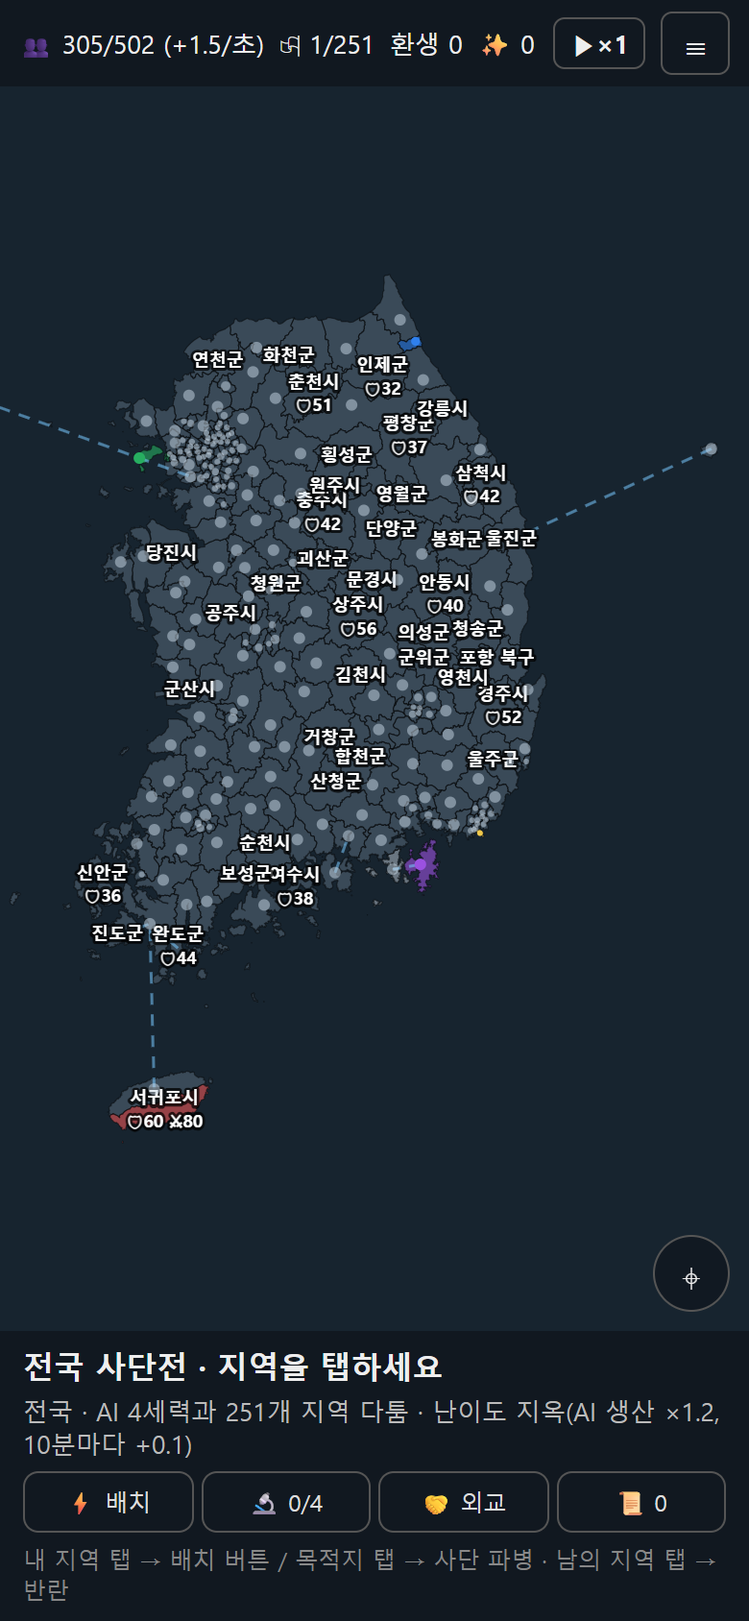
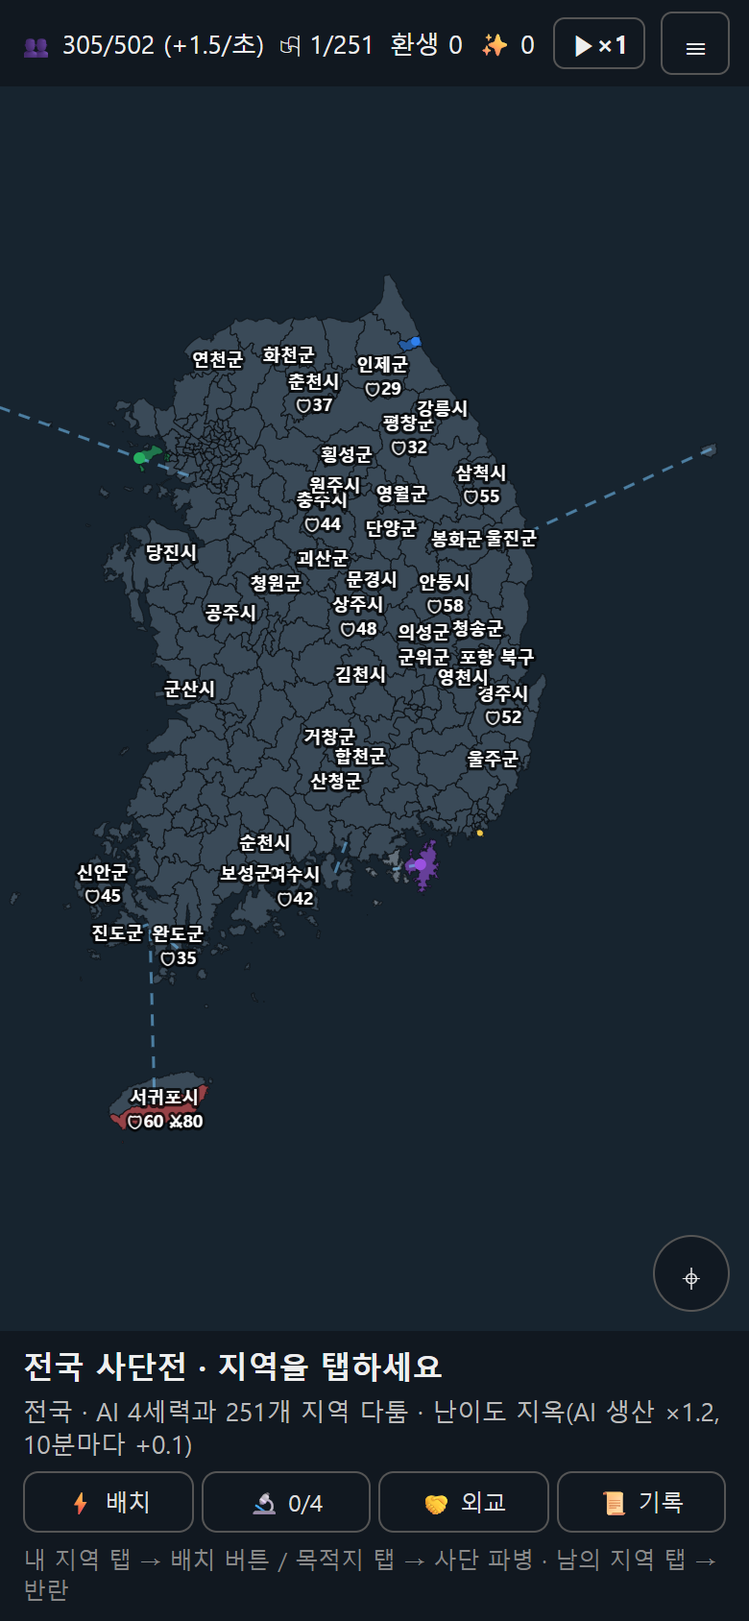
사단전: 시·도 완전 점령 보너스 · 시작 지역 고르기 · 📊전황
- 시·도(서울·강원…)를 전부 가지면 그 지역들 생산 +30%·수비 +15%. 유산 '통치'(+10%p/Lv)와
  축복 '통합'(×2)이 이 모드에서도 뜻을 갖는다. 지도에 ★, 패널에 ⛳ 진행도(강원 12/18).
  한 판의 목표가 "251곳 다 먹기" 하나뿐이던 문제 — 중간 목표가 생겼다
- 시작 지역 고르기: "강원도에서 항상 시작하는 건 너무 힘들다"는 피드백. 판마다 4~8곳 중 고르고,
  초반 속도를 봇으로 실측해(지옥·시드 5개·10분 지역 수) 쉬움/보통/어려움/도전을 붙였다.
  수원 장안구 126곳 · 전주 100 · 청주 99 · 천안 94 · 창원 89 · 속초 85 · 안동 50 · 제주 48
- 📊 전황: 세력별 지역 수 막대·인력·생산·★시·도, 그리고 시·도별 점유 현황

Claude-Session: https://claude.ai/code/session_0121x7Too4SyNdWJQZ2xNJJY

diff --git a/src/region/main.js b/src/region/main.js
@@ -1,5 +1,5 @@
 // 사단전 모드 배선 (region.html)
-import { MAP, PLAYER, NEUTRAL, OFF, newRun, tick, status, owned, activeCount, totalPool, totalProd, allocate, move, rebel, canRebel, predict, setListener, prodOf, poolCap, defMul, info, adj, TRAIT_NAME, difficultyOf, REBEL_DELAY, REBEL_RATIO, BOARDS, DEFAULT_BOARD, boardOf, ISO_PROD, ISO_DEF, supplyHub, autoDeploy, moveFar, pathThroughMine, truce, TRUCE, TECHS, techsOf, techCost, hasTech, techCount, research, atPeace, pactLeft, relOf, proposePact, refusedLeft, leaderOf, PACT_DUR } from './game.js';
+import { MAP, PLAYER, NEUTRAL, OFF, newRun, tick, status, owned, activeCount, totalPool, totalProd, allocate, move, rebel, canRebel, predict, setListener, prodOf, poolCap, defMul, info, adj, TRAIT_NAME, difficultyOf, REBEL_DELAY, REBEL_RATIO, BOARDS, DEFAULT_BOARD, boardOf, HOMES, homesOf, homeNames, provinceIds, provinceHolder, provProgress, provMul, PROV_PROD, ISO_PROD, ISO_DEF, supplyHub, autoDeploy, moveFar, pathThroughMine, truce, TRUCE, TECHS, techsOf, techCost, hasTech, techCount, research, atPeace, pactLeft, relOf, proposePact, refusedLeft, leaderOf, PACT_DUR } from './game.js';
 import { runAi } from './ai.js';
 import { draw, pickRegion, bounds, centerOf, regionBox } from './render.js';
 import { createCamera, ownerColor, FACTION_COLORS, setColorblind } from '../render.js';
@@ -101,6 +101,13 @@ function refresh() {
   const r = state.run.regions[id], m = info(id), mine = r.owner === PLAYER;
   $('p-title').innerHTML = `<span style="color:${ownerColor(r.owner)}">■</span> ${m.p} ${m.n} · ${ownerName(r.owner)} · ${TRAIT_NAME[m.tr]}`;
   const lines = [`🛡 방어 ${Math.floor(r.def)} · ⚔ 사단 ${Math.floor(r.div)} · 수비 배율 ×${defMul(state, r).toFixed(2)}`];
+  const pg = provProgress(state, m.p);
+  if (pg.total > 1) {
+    const holder = provinceHolder(state.run, m.p);
+    lines.push(holder === PLAYER
+      ? `★ ${m.p} 완전 점령 — 이 시·도 전체 생산 +${Math.round((provMul(state, r, 'prod') - 1) * 100)}%, 수비 +15%`
+      : `⛳ ${m.p} ${pg.mine}/${pg.total}${holder !== null ? ` · 지금 주인 ${ownerName(holder)}` : ''} — 다 가지면 생산 +${Math.round(PROV_PROD * 100)}%, 수비 +15%`);
+  }
   if (r.owner !== NEUTRAL && r.iso) lines.push(`⛓ 고립 — 본국(${r.owner === PLAYER ? info(supplyHub(state, PLAYER)).n : '상대 수도'})과 이어진 길이 끊겨 생산 ×${ISO_PROD}, 수비 ×${ISO_DEF}`);
   if (r.owner !== NEUTRAL) lines.push(`생산력 ${prodOf(state, r).toFixed(2)}/초 (${m.t})${mine ? ` · 내 인력 ${Math.floor(totalPool(state, PLAYER))}/${Math.floor(poolCap(state, PLAYER))} (전 지역 합산 +${totalProd(state, PLAYER).toFixed(1)}/초)` : ''}`);
   else lines.push(`중립 · 생산력 ${m.prod}/초 (${m.t}) · 점령하려면 ${Math.floor(r.def * defMul(state, r)) + 1}명 넘게`);
@@ -153,13 +160,26 @@ function mapPickerHtml() {
 const pickedDifficulty = () => { const el = document.querySelector('input[name="diff"]:checked'); return el ? el.value : state.legacy.difficulty; };
 function boardPickerHtml() {
   const cur = state.legacy.boardPref || state.run.board || DEFAULT_BOARD;
-  return `<p class="sub">판 (권역을 고르면 짧고 빠른 판)</p>` + Object.entries(BOARDS).map(([k, b]) => `<label class="diff-row"><input type="radio" name="board" value="${k}" ${k === cur ? 'checked' : ''}> ${b.name} <span class="desc">${b.desc}${b.maxAi < 6 ? ` · AI 최대 ${b.maxAi}` : ''}</span></label>`).join('');
+  return `<p class="sub">판 (권역을 고르면 짧고 빠른 판)</p>` + Object.entries(BOARDS).map(([k, b]) => `<label class="diff-row"><input type="radio" name="board" value="${k}" ${k === cur ? 'checked' : ''}> ${b.name} <span class="desc">${b.desc}${b.maxAi < 6 ? ` · AI 최대 ${b.maxAi}` : ''}</span></label>`).join('')
+    + `<div id="home-pick">${homePickerHtml(cur)}</div>`;
+}
+const TAG_COLOR = { '쉬움': '#6fe38f', '보통': '#8fd0ff', '어려움': '#ffd479', '도전': '#ff9c9c' };
+function homePickerHtml(board) {
+  const cur = state.legacy.homePref && homeNames(board).includes(state.legacy.homePref) ? state.legacy.homePref : BOARDS[board].home;
+  return `<p class="sub">시작 지역 (내 수도 · 어디서 시작하느냐로 초반이 크게 달라집니다)</p>` + homesOf(board).map(h => `<label class="diff-row"><input type="radio" name="home" value="${h.n}" ${h.n === cur ? 'checked' : ''}> ${h.n} <b style="color:${TAG_COLOR[h.tag]}">${h.tag}</b> <span class="desc">${h.desc}</span></label>`).join('');
 }
 const pickedBoard = () => { const el = document.querySelector('input[name="board"]:checked'); return el ? el.value : (state.legacy.boardPref || DEFAULT_BOARD); };
+const pickedHome = () => { const el = document.querySelector('input[name="home"]:checked'); return el ? el.value : null; };
+// 판을 바꾸면 시작 지역 목록도 따라 바뀐다
+function wireBoardPicker() {
+  for (const el of document.querySelectorAll('input[name="board"]')) {
+    el.addEventListener('change', () => { const box = $('home-pick'); if (box) box.innerHTML = homePickerHtml(el.value); });
+  }
+}
 const pickedPerk = () => { const el = document.querySelector('input[name="perk"]:checked'); return el ? el.value : null; };
 function perkPickerHtml(seed) { return `<p class="sub">이번 판 축복 (하나 선택)</p><div class="perk-row">${offerPerks(seed).map((k, i) => `<label><input type="radio" name="perk" value="${k}" ${i === 0 ? 'checked' : ''}><b>${PERKS[k].icon} ${PERKS[k].name}</b><span class="desc">${PERKS[k].desc}</span></label>`).join('')}</div>`; }
 function openCareer(after = hideModal) { openCareerModal({ state, save: () => save(), after, mode: 'region', boardName: k => (BOARDS[k] || {}).name, canChangeLead: () => truce(state) || !state.legacy.lead }); }
-function startNew(seed, perk, board = state.legacy.boardPref || DEFAULT_BOARD) { state.legacy.boardPref = board; state.run = newRun(seed, state.legacy, perk, board); sel = null; inspect = null; ended = false; effects = []; fitAll(); focusOn(state.run.regions.findIndex(r => r.owner === PLAYER)); save(); refresh(); }
+function startNew(seed, perk, board = state.legacy.boardPref || DEFAULT_BOARD, home = state.legacy.homePref) { state.legacy.boardPref = board; if (home) state.legacy.homePref = home; state.run = newRun(seed, state.legacy, perk, board, home); sel = null; inspect = null; ended = false; effects = []; fitAll(); focusOn(state.run.regions.findIndex(r => r.owner === PLAYER)); save(); refresh(); }
 function openShop(after = hideModal) {
   const rows = Object.entries(LEGACY_ITEMS).map(([k, it]) => {
     const lv = state.legacy.upgrades[k] || 0, maxed = lv >= it.max, locked = itemLocked(it, state.legacy), cost = maxed ? null : itemCost(k, lv);
@@ -227,6 +247,24 @@ function openFind(q = '') {
   const el = $('find-q');
   if (el) { el.addEventListener('input', () => { const v = el.value; openFind(v); const e2 = $('find-q'); if (e2) { e2.focus(); e2.setSelectionRange(v.length, v.length); } }); }
 }
+function openStatus(after = hideModal) {
+  const total = activeCount(state);
+  const rows = [];
+  for (let f = 0; f < state.run.factions; f++) {
+    const n = owned(state, f).length, pct = Math.round(n / total * 100);
+    const provs = [...provinceIds(state.run.board || DEFAULT_BOARD).keys()].filter(p => provinceHolder(state.run, p) === f);
+    rows.push(`<div class="shop-row"><span class="name" style="color:${ownerColor(f)}">${ownerName(f)} <b>${n}곳 (${pct}%)</b>
+      <span class="desc">인력 ${Math.floor(totalPool(state, f))} · 생산 ${totalProd(state, f).toFixed(0)}/초${provs.length ? ` · ★ ${provs.join(' ')}` : ''}</span>
+      <span style="display:block;height:6px;margin-top:4px;background:#2a3644;border-radius:3px"><span style="display:block;height:6px;width:${Math.max(2, pct)}%;background:${ownerColor(f)};border-radius:3px"></span></span></span></div>`);
+  }
+  const provs = [...provinceIds(state.run.board || DEFAULT_BOARD).entries()]
+    .map(([p, ids]) => { const h = provinceHolder(state.run, p); const mine = ids.filter(id => state.run.regions[id].owner === PLAYER).length; return { p, h, mine, total: ids.length }; })
+    .sort((a, b) => (b.mine / b.total) - (a.mine / a.total));
+  const provRow = provs.map(x => `<span style="color:${x.h === null ? '#aaa' : ownerColor(x.h)}">${x.h !== null ? '★' : ''}${x.p} ${x.mine}/${x.total}</span>`).join(' · ');
+  showModal({ title: `📊 전황 · ${hms(Math.round(state.run.elapsed || 0))}째`, html: `${rows.join('')}
+    <p class="sub">시·도 (★ = 완전 점령, 그 시·도 생산 +${Math.round(PROV_PROD * 100)}%·수비 +15%)</p><p>${provRow}</p>`,
+    actions: [{ label: '닫기', onClick: after, primary: true }] });
+}
 function openLog() {
   const L = logs();
   const rows = L.map((x, i) => `<div class="shop-row"><span class="name" style="color:${x.kind === 'bad' ? '#ff9c9c' : x.kind === 'good' ? '#9ae6b4' : '#ddd'}">${x.text}<span class="desc">${hms(x.t)}째</span></span>${x.id !== null && x.id !== undefined ? `<button data-action="go:${x.id}">보기</button>` : ''}</div>`).join('')
@@ -243,6 +281,8 @@ function openHelp() {
     <h3>반란</h3><p>남이 가진 지역을 탭 → ✊반란 10/100/500/최대. 내 모든 풀에서 빠지고 10초 뒤 70%가 그 지역 안에서 봉기해 방어+사단과 싸운다. 인접할 필요 없음. AI도 똑같이 한다.</p>
     <h3>연구</h3><p>패널의 🔬<b>연구</b>로 인력을 들여 그 판 동안 쓸 기술을 산다: ${Object.values(TECHS).map(t => `${t.icon}${t.name}(${t.desc})`).join(' · ')}. 하나 살 때마다 다음 값이 1.6배. AI도 똑같이 연구한다.</p>
     <h3>외교</h3><p>🤝<b>외교</b>로 AI에 <b>정전</b>(${PACT_DUR}초)을 제안한다. 정전 중엔 서로 못 친다. 어기면 관계가 크게 깎이고 다른 세력도 나를 믿지 않는다. AI들은 👑<b>선두를 싫어해</b> 자기들끼리 손을 잡으니, 내가 너무 앞서면 사방에서 몰려온다.</p>
+    <h3>시·도 완전 점령</h3><p>한 시·도(서울·강원·경북…)의 지역을 <b>전부</b> 가지면 그 시·도 지역들의 생산 +${Math.round(PROV_PROD * 100)}%, 수비 +15%(유산 '통치'로 더, 축복 '통합'이면 두 배). 지도에서 ★가 붙고, 패널에 ⛳ 진행도(예: 강원 12/18)가 뜬다. 한 판 안의 중간 목표다. ≡ 메뉴 📊<b>전황</b>에서 세력별 세력도와 시·도 점유를 한눈에 본다.</p>
+    <h3>시작 지역</h3><p>환생 창이나 "난이도 바꿔 새 판"에서 <b>시작 지역</b>을 고른다. 쉬움(수원 장안구)부터 도전(제주시·안동시)까지 붙은 표시는 봇으로 실측한 초반 속도다. 속초시(설악산)는 이웃 셋이 전부 산악 군이라 어려움 쪽이다.</p>
     <h3>보급 (본국 연결)</h3><p>내 <b>본국</b>(수도, 잃으면 생산력이 가장 큰 내 지역)에서 <b>내 지역만 밟아</b> 닿지 않는 지역은 ⛓<b>고립</b>이다. 고립 지역은 생산 ×${ISO_PROD}, 수비 ×${ISO_DEF}이고 지도에서 어둡게 보인다. AI도 똑같이 당하니, 크게 뻗은 AI의 <b>허리를 끊으면</b> 뒤쪽 땅이 한꺼번에 약해진다.</p>
     <h3>기록</h3><p>패널의 📜<b>기록</b>에 점령·상실·봉기·배신·격파·연구가 최근 30건까지 남는다. [보기]를 누르면 그 지역으로 간다. 정전 중인 세력 땅에는 흰 점선 테두리가 뜬다.</p>
     <h3>화면</h3><p>한 손가락으로 밀어 이동, 두 손가락으로 확대·축소(많이 들어갈 수 있다), ⌖로 전체 보기. 서울처럼 작은 구는 확대해야 이름이 뜬다. ≡ 메뉴의 🔍<b>지역 찾기</b>에 이름 일부를 넣으면 그 지역으로 바로 옮겨 준다.</p>
@@ -254,7 +294,7 @@ function openHelp() {
 }
 function openMenu() {
   showModal({ title: '메뉴 · 사단전', html: `<p>🎖 ${rankOf(state.legacy).name} · 유산 ✨ ${state.legacy.points} · 환생 ${state.legacy.prestigeCount}회 · 난이도 ${difficultyOf(state).name}</p>
-    <p><button data-action="help">📖 도움말</button> <button data-action="find">🔍 지역 찾기</button> <button data-action="shop">유산 상점</button> <button data-action="career">🎖 전적·계급</button> <button data-action="restart">난이도 바꿔 새 판</button></p>
+    <p><button data-action="status">📊 전황</button> <button data-action="help">📖 도움말</button> <button data-action="find">🔍 지역 찾기</button> <button data-action="shop">유산 상점</button> <button data-action="career">🎖 전적·계급</button> <button data-action="restart">난이도 바꿔 새 판</button></p>
     <p><label><input type="checkbox" data-action="cb" ${state.legacy.colorblind ? 'checked' : ''}> 색약 모드</label></p>
     <p><button data-action="export">저장 내보내기</button> <button data-action="import">저장 가져오기</button> <button data-action="reset" style="color:#eb5757">처음부터</button></p>
     <p><a href="index.html" style="color:#6fb1ff">⬡ 육각 모드로 가기</a></p>`,
@@ -264,8 +304,9 @@ function openMenu() {
       if (a === 'shop') openShop(openMenu);
       if (a === 'career') openCareer(openMenu);
       if (a === 'find') openFind();
+      if (a === 'status') openStatus(openMenu);
       if (a === 'cb') { state.legacy.colorblind = el.checked; setColorblind(el.checked); save(); }
-      if (a === 'restart') showModal({ title: '새 판', html: `<p>이번 판을 버리고 새로 시작합니다(유산 유지, 포인트 없음).</p>${mapPickerHtml()}`, actions: [{ label: '취소', onClick: hideModal }, { label: '새로 시작', primary: true, onClick: () => { state.legacy.difficulty = pickedDifficulty(); const bd = pickedBoard(); hideModal(); startNew(Date.now() >>> 0, null, bd); } }] });
+      if (a === 'restart') { showModal({ title: '새 판', html: `<p>이번 판을 버리고 새로 시작합니다(유산 유지, 포인트 없음).</p>${mapPickerHtml()}`, actions: [{ label: '취소', onClick: hideModal }, { label: '새로 시작', primary: true, onClick: () => { state.legacy.difficulty = pickedDifficulty(); const bd = pickedBoard(), hm = pickedHome(); hideModal(); startNew(Date.now() >>> 0, null, bd, hm); } }] }); wireBoardPicker(); }
       if (a === 'export') showModal({ title: '저장 내보내기', html: `<textarea readonly>${JSON.stringify(state)}</textarea>`, actions: [{ label: '닫기', onClick: hideModal, primary: true }] });
       if (a === 'import') showModal({ title: '저장 가져오기', html: `<textarea id="import-text"></textarea><p id="import-msg"></p>`, actions: [{ label: '취소', onClick: hideModal }, { label: '가져오기', primary: true, onClick: () => { try { const o = JSON.parse($('import-text').value); if (!o.run || o.run.mode !== 'region') throw 0; state = o; sel = null; inspect = null; ended = false; fitAll(); save(); hideModal(); refresh(); } catch { $('import-msg').textContent = '형식이 맞지 않습니다.'; } } }] });
       if (a === 'reset') showModal({ title: '정말 삭제할까요?', html: '<p>사단전 모드의 유산·환생 기록까지 전부 사라집니다.</p>', actions: [{ label: '취소', onClick: hideModal }, { label: '삭제', onClick: () => { localStorage.removeItem(SAVE_KEY); state = newState(); sel = null; inspect = null; ended = false; fitAll(); save(); hideModal(); refresh(); } }] });
@@ -305,6 +346,7 @@ function checkEnd() {
       hideModal(); startNew(seed, pk, bd); openShop(() => { hideModal(); refresh(); });
     } }],
   });
+  wireBoardPicker();
 }
 // 꺼둔 시간은 정산하지 않는다 (2026-09-11 "방치는 없는걸로"): 나가던 그 상황에서 그대로 이어 한다
 function notePause(elapsed) {

diff --git a/src/region/game.js b/src/region/game.js
@@ -17,6 +17,44 @@ export const BOARDS = {
   honam:    { name: '호남·충청', ps: ['광주', '대전', '세종', '충북', '충남', '전북', '전남'],     home: '해남군', maxAi: 3, desc: '광주·대전·세종·충청·전라 77곳 · 🌾평야라 치고받기 쉽다' },
 };
 export const DEFAULT_BOARD = 'all';
+// 시작 지역(수도) 후보. 속초는 산악(중립 수비 ×1.5)에 이웃 셋이 전부 군(생산 1)이라 가장 불리하다 —
+// "강원도에서 항상 시작하는 건 너무 힘들다"는 피드백으로 고를 수 있게 했다. 난이도는 봇 실측으로 붙였다
+// tag/desc 는 봇 실측(지옥, 시드 5개 평균 10분 지역 수)으로 붙였다
+export const HOMES = {
+  all: [
+    { n: '수원 장안구', tag: '쉬움',   desc: '🌾평야 한가운데, 이웃 다섯이 전부 생산 2 안팎 (10분 126곳)' },
+    { n: '전주 완산구', tag: '보통',   desc: '호남 평야, 뒤가 트여 있다 (10분 100곳)' },
+    { n: '청주 흥덕구', tag: '보통',   desc: '나라 한복판, 사방으로 뻗는다 (10분 99곳)' },
+    { n: '천안 서북구', tag: '보통',   desc: '수도권과 충청 사이 길목 (10분 94곳)' },
+    { n: '창원 의창구', tag: '어려움', desc: '🌊해안, 등 뒤는 안전하지만 앞이 좁다 (10분 89곳)' },
+    { n: '속초시',      tag: '어려움', desc: '⛰설악산. 이웃 셋이 전부 산악 군이라 초반이 답답하다 (10분 85곳)' },
+    { n: '안동시',      tag: '도전',   desc: '경북 산속, 생산이 낮고 사방이 산 (10분 50곳)' },
+    { n: '제주시',      tag: '도전',   desc: '섬. 뱃길 하나로만 이어져 나가기 어렵다 (10분 48곳)' },
+  ],
+  capital: [
+    { n: '고양 덕양구', tag: '쉬움',   desc: '서울 서북, 넓은 배후지 (10분 57곳)' },
+    { n: '수원 장안구', tag: '보통',   desc: '경기 남부 중심 (10분 47곳)' },
+    { n: '연천군',      tag: '어려움', desc: '최북단, 이웃이 적다 (10분 41곳)' },
+    { n: '인천 서구',   tag: '도전',   desc: '해안에 몰려 시작한다 (10분 30곳)' },
+  ],
+  yeongnam: [
+    { n: '창원 의창구', tag: '쉬움',   desc: '경남 해안 중심 (10분 47곳)' },
+    { n: '포항 북구',   tag: '보통',   desc: '동해안에서 내륙으로 (10분 38곳)' },
+    { n: '달서구',      tag: '보통',   desc: '대구 도심, 병영이 세다' },
+    { n: '울진군',      tag: '도전',   desc: '산악 끝자락 (10분 17곳)' },
+  ],
+  honam: [
+    { n: '광주 북구',   tag: '쉬움',   desc: '호남 도심 (10분 66곳)' },
+    { n: '전주 완산구', tag: '보통',   desc: '전북 평야 (10분 52곳)' },
+    { n: '해남군',      tag: '어려움', desc: '땅끝, 한쪽으로만 나간다 (10분 47곳)' },
+    { n: '천안 서북구', tag: '도전',   desc: '북쪽 끝에서 남으로 밀고 내려간다 (10분 31곳)' },
+  ],
+};
+export const homesOf = board => HOMES[board] || HOMES[DEFAULT_BOARD];
+export const homeNames = board => homesOf(board).map(h => h.n);
+// 한 시·도(서울·강원…)를 전부 가지면 그 지역들의 생산 +30%, 수비 +15%.
+// 한 판 안에 "강원도를 다 먹자" 같은 중간 목표를 만든다 (지역이 하나뿐인 세종은 제외)
+export const PROV_PROD = 0.3, PROV_DEF = 0.15;
 const boardCache = new Map();
 export function boardIds(key = DEFAULT_BOARD) {
   if (!boardCache.has(key)) {
@@ -26,6 +64,37 @@ export function boardIds(key = DEFAULT_BOARD) {
   return boardCache.get(key);
 }
 export function boardOf(state) { return BOARDS[state.run.board] || BOARDS[DEFAULT_BOARD]; }
+export const provinceOf = id => MAP.regions[id].p;
+const provCache = new Map();
+// 판 안의 시·도 → 지역 id 목록 (지역이 2곳 이상인 시·도만 보너스 대상)
+export function provinceIds(board = DEFAULT_BOARD) {
+  if (!provCache.has(board)) {
+    const m = new Map();
+    for (const id of boardIds(board)) { const p = provinceOf(id); if (!m.has(p)) m.set(p, []); m.get(p).push(id); }
+    for (const [p, ids] of [...m]) if (ids.length < 2) m.delete(p);
+    provCache.set(board, m);
+  }
+  return provCache.get(board);
+}
+// 그 시·도를 통째로 가진 세력 (없으면 null)
+export function provinceHolder(run, p) {
+  const ids = provinceIds(run.board || DEFAULT_BOARD).get(p);
+  if (!ids) return null;
+  const f = run.regions[ids[0]].owner;
+  if (f === NEUTRAL || f === OFF) return null;
+  return ids.every(id => run.regions[id].owner === f) ? f : null;
+}
+export function provProgress(state, p, f = PLAYER) {
+  const ids = provinceIds(state.run.board || DEFAULT_BOARD).get(p) || [];
+  return { mine: ids.filter(id => state.run.regions[id].owner === f).length, total: ids.length };
+}
+// 그 지역에 붙는 시·도 보너스 배율 (유산 '통치' +10%p/레벨과 축복 '통합' ×2는 플레이어만)
+export function provMul(state, r, kind) {
+  if (!r.provFull) return 1;
+  const base = kind === 'def' ? PROV_DEF : PROV_PROD;
+  if (r.owner !== PLAYER) return 1 + base;
+  return 1 + base * ((perkOf(state).unity || 1)) + (kind === 'prod' ? 0.1 * lv(state, 'regionBonus') : 0);
+}
 // 이 판에 있는 이웃만 (권역 판에서 바깥으로는 못 나간다)
 export function adj(run, id) { return MAP.regions[id].adj.filter(n => run.regions[n].owner !== OFF); }
 export const POOL_CAP = 500, CAP_PER_REGION = 2; // 풀 한도 = 500 + 지역당 2 (전국 251곳이면 1000). 고정 500이면 후반에 생산 대부분이 버려져 판이 안 끝났다
@@ -127,10 +196,10 @@ export function difficultyOf(state) { return DIFFICULTIES[state.legacy.difficult
 export function aiMul(state) { return difficultyOf(state).mul + 0.1 * state.legacy.prestigeCount + Math.min(AI_RAMP_MAX, AI_RAMP * (state.run.elapsed || 0) / 600); }
 export function prodMul(state, f) { const base = f === PLAYER ? (1 + 0.1 * lv(state, 'gold') + 0.1 * lv(state, 'soldiers')) * (perkOf(state).gold || 1) * (perkOf(state).soldiers || 1) * rankBonus(state.legacy) * gen(state, 'prod') : aiMul(state); return base * techMul(state.run, f, 'prod'); }
 export function attackMul(state, f) { return (f === PLAYER ? (1 + 0.05 * lv(state, 'attack')) * (perkOf(state).attack || 1) * gen(state, 'attack') : 1) * techMul(state.run, f, 'attack'); }
-export function defMul(state, r) { const base = (TRAIT_DEF[MAP.regions[r.id].tr] || 1) * (r.iso ? isoDef(state, r.owner) : 1); return r.owner === PLAYER ? base * (1 + 0.05 * lv(state, 'wall')) * (perkOf(state).def || 1) * gen(state, 'def') : base; }
+export function defMul(state, r) { const base = (TRAIT_DEF[MAP.regions[r.id].tr] || 1) * (r.iso ? isoDef(state, r.owner) : 1) * provMul(state, r, 'def'); return r.owner === PLAYER ? base * (1 + 0.05 * lv(state, 'wall')) * (perkOf(state).def || 1) * gen(state, 'def') : base; }
 export function poolCap(state, f) { return (POOL_CAP + CAP_PER_REGION * owned(state, f).length) * (f === PLAYER ? 1 + 0.1 * lv(state, 'capBonus') : 1); }
 export function speedOf(state, f) { return (f === PLAYER ? REGION_SPEED * (1 + 0.1 * lv(state, 'speed')) * (perkOf(state).speed || 1) * gen(state, 'speed') : REGION_SPEED) * techMul(state.run, f, 'speed'); }
-export function prodOf(state, r) { return MAP.regions[r.id].prod * prodMul(state, r.owner) * (r.iso ? isoProd(state, r.owner) : 1); }
+export function prodOf(state, r) { return MAP.regions[r.id].prod * prodMul(state, r.owner) * (r.iso ? isoProd(state, r.owner) : 1) * provMul(state, r, 'prod'); }
 export function aiCountFor(prestige) { return Math.min(4 + Math.floor(prestige / 3), 6); }
 export const info = id => MAP.regions[id];
 export const neighbors = id => MAP.regions[id].adj;
@@ -142,13 +211,14 @@ export function bfsDist(from, board = null) {
   for (let i = 0; i < q.length; i++) for (const n of neighbors(q[i])) if (d[n] < 0 && (!inBoard || inBoard.has(n))) { d[n] = d[q[i]] + 1; q.push(n); }
   return d;
 }
-export function newRun(seed, legacy = {}, perk = null, board = legacy.boardPref || DEFAULT_BOARD) {
+export function newRun(seed, legacy = {}, perk = null, board = legacy.boardPref || DEFAULT_BOARD, homeName = legacy.homePref || null) {
   const rand = mulberry32(seed);
   const pk = PERKS[perk] || {};
   const up = legacy.upgrades || {};
   const bd = BOARDS[board] ? board : DEFAULT_BOARD, ids = boardIds(bd), inBoard = new Set(ids);
   const factions = 1 + Math.min(BOARDS[bd].maxAi, Math.max(1, aiCountFor(legacy.prestigeCount || 0) + (pk.aiDelta || 0)));
-  const home = ids.find(i => MAP.regions[i].n === BOARDS[bd].home);
+  const want = homeNames(bd).includes(homeName) ? homeName : BOARDS[bd].home;
+  const home = ids.find(i => MAP.regions[i].n === want) ?? ids.find(i => MAP.regions[i].n === BOARDS[bd].home);
   const capitals = [home];
   while (capitals.length < factions) { // 기존 수도들에서 가장 먼 지역 (판 안에서만)
     const ds = capitals.map(c => bfsDist(c, bd));
@@ -164,7 +234,7 @@ export function newRun(seed, legacy = {}, perk = null, board = legacy.boardPref 
     return { id, owner: NEUTRAL, def: Math.round((15 + m.prod * 20) * (0.8 + rand() * 0.5) * garrisonMul), div: 0 }; // 구 55·시 45·군 35 안팎
   });
   const pool = Array(factions).fill(100); pool[PLAYER] = 300 + 100 * (up.startGold || 0) + (pk.startGold || 0);
-  const run = { seed, mode: 'region', board: bd, factions, regions, pool, capitals, tech: Array.from({ length: factions }, () => ({})), rel: Array.from({ length: factions }, () => Array(factions).fill(0)), pacts: {}, armies: [], rebels: [], aiTimers: Array(factions).fill(0), aiTurns: [], maxRegions: 1, sendRatio: 0.5, elapsed: 0, ...(perk && PERKS[perk] ? { perk } : {}) };
+  const run = { seed, mode: 'region', board: bd, home, factions, regions, pool, capitals, tech: Array.from({ length: factions }, () => ({})), rel: Array.from({ length: factions }, () => Array(factions).fill(0)), pacts: {}, armies: [], rebels: [], aiTimers: Array(factions).fill(0), aiTurns: [], maxRegions: 1, sendRatio: 0.5, elapsed: 0, ...(perk && PERKS[perk] ? { perk } : {}) };
   refreshSupply({ legacy, run });
   return run;
 }
@@ -180,6 +250,10 @@ export function supplyHub(state, f) {
 }
 export function refreshSupply(state) {
   const run = state.run;
+  // 시·도 완전 점령 표시 (생산·수비 보너스)
+  const provs = provinceIds(run.board || DEFAULT_BOARD);
+  for (const r of run.regions) if (r.owner !== OFF) r.provFull = false;
+  for (const [p, ids] of provs) { const h = provinceHolder(run, p); if (h !== null) for (const id of ids) run.regions[id].provFull = true; }
   for (const r of run.regions) if (r.owner !== OFF) r.iso = r.owner !== NEUTRAL;
   for (let f = 0; f < run.factions; f++) {
     const hub = supplyHub(state, f); if (hub === null) continue;

diff --git a/tests/region_province.test.js b/tests/region_province.test.js
@@ -1,0 +1,90 @@
+// 사단전: 시·도 완전 점령 보너스 (한 판 안의 중간 목표)
+import { test } from 'node:test';
+import assert from 'node:assert/strict';
+import MAP from '../src/maps/sgg.js';
+import { PLAYER, NEUTRAL, PROV_PROD, PROV_DEF, newRun, tick, owned, provinceIds, provinceHolder, provinceOf, provProgress, prodOf, defMul, refreshSupply } from '../src/region/game.js';
+
+function mk(seed = 1, board = 'all', legacy = {}) {
+  const l = { points: 0, prestigeCount: 0, upgrades: {}, difficulty: 'normal', ...legacy };
+  return { legacy: l, run: newRun(seed, l, null, board) };
+}
+const take = (s, ids, f = PLAYER) => { for (const id of ids) { s.run.regions[id].owner = f; s.run.regions[id].def = 10; } refreshSupply(s); };
+
+test('시·도 묶음: 판 안의 지역만, 한 곳뿐인 시·도(세종)는 보너스 대상이 아니다', () => {
+  const all = provinceIds('all');
+  assert.equal(all.get('서울').length, 25);
+  assert.equal(all.get('강원').length, 18);
+  assert.ok(!all.has('세종') || all.get('세종').length === 1);
+  const cap = provinceIds('capital');
+  assert.deepEqual([...cap.keys()].sort(), ['경기', '서울', '인천']);
+  assert.equal(provinceOf(all.get('서울')[0]), '서울');
+});
+
+test('한 시·도를 전부 가지면 그 지역 생산 +30%, 수비 +15%', () => {
+  const s = mk(2);
+  const gw = provinceIds('all').get('강원');
+  const one = owned(s, PLAYER)[0].id; // 내 수도(속초시, 강원) — 늘 본국과 이어져 있어 고립 배율이 섞이지 않는다
+  assert.ok(gw.includes(one));
+  const before = { prod: 0, def: 0 };
+  const had = provProgress(s, '강원').mine; // 내 수도(속초시)가 이미 강원에 있다
+  take(s, [one]);
+  before.prod = prodOf(s, s.run.regions[one]); before.def = defMul(s, s.run.regions[one]);
+  assert.equal(provinceHolder(s.run, '강원'), null);
+  assert.ok(provProgress(s, '강원').mine >= had && provProgress(s, '강원').total === gw.length);
+  take(s, gw);
+  assert.equal(provinceHolder(s.run, '강원'), PLAYER);
+  assert.ok(Math.abs(prodOf(s, s.run.regions[one]) - before.prod * (1 + PROV_PROD)) < 1e-9);
+  assert.ok(Math.abs(defMul(s, s.run.regions[one]) - before.def * (1 + PROV_DEF)) < 1e-9);
+  // 한 곳만 잃어도 보너스가 사라진다
+  s.run.regions[gw[1]].owner = 1; refreshSupply(s);
+  assert.equal(provinceHolder(s.run, '강원'), null);
+  assert.ok(Math.abs(prodOf(s, s.run.regions[one]) - before.prod) < 1e-9);
+});
+
+test('AI도 같은 보너스를 받고, 유산 통치는 플레이어만 더 준다', () => {
+  const s = mk(3);
+  const gw = provinceIds('all').get('강원');
+  take(s, gw, 1);
+  assert.equal(provinceHolder(s.run, '강원'), 1);
+  const aiProd = prodOf(s, s.run.regions[gw[0]]);
+  const plain = { ...s, run: { ...s.run } };
+  // 유산 '통치' 2레벨이면 플레이어 보너스가 +20%p 더
+  const s2 = mk(3, 'all', { upgrades: { regionBonus: 2 } });
+  const gw2 = provinceIds('all').get('강원');
+  take(s2, gw2);
+  const s3 = mk(3);
+  take(s3, gw2);
+  assert.ok(prodOf(s2, s2.run.regions[gw2[0]]) > prodOf(s3, s3.run.regions[gw2[0]]));
+  assert.ok(aiProd > 0);
+});
+
+test('tick이 시·도 보너스를 갱신한다', () => {
+  const s = mk(4, 'capital');
+  const seoul = provinceIds('capital').get('서울');
+  for (const id of seoul) s.run.regions[id].owner = PLAYER;
+  tick(s, 1);
+  assert.equal(s.run.regions[seoul[0]].provFull, true);
+  assert.equal(provinceHolder(s.run, '서울'), PLAYER);
+});
+
+test('시작 지역: 판마다 고를 수 있고, 이름이 다 판 안에 있다', async () => {
+  const g = await import('../src/region/game.js');
+  for (const [board, list] of Object.entries(g.HOMES)) {
+    const ids = new Set(g.boardIds(board));
+    assert.ok(list.length >= 4, board);
+    for (const h of list) {
+      const i = MAP.regions.findIndex(r => r.n === h.n);
+      assert.ok(i >= 0 && ids.has(i), `${board}: ${h.n}`);
+      assert.ok(h.tag && h.desc, h.n);
+    }
+    // 기본 수도도 목록에 있어야 고른 뒤 되돌릴 수 있다
+    assert.ok(list.some(h => h.n === g.BOARDS[board].home), `${board} 기본 ${g.BOARDS[board].home}`);
+  }
+  // 고른 곳에서 시작한다
+  const l = { points: 0, prestigeCount: 0, upgrades: {}, difficulty: 'normal' };
+  const run = g.newRun(5, l, null, 'all', '수원 장안구');
+  assert.equal(MAP.regions[run.regions.find(r => r.owner === PLAYER).id].n, '수원 장안구');
+  // 없는 이름이면 기본값
+  const run2 = g.newRun(5, l, null, 'all', '없는곳');
+  assert.equal(MAP.regions[run2.regions.find(r => r.owner === PLAYER).id].n, g.BOARDS.all.home);
+});

diff --git a/src/region/render.js b/src/region/render.js
@@ -124,7 +124,11 @@ export function draw(ctx, state, cam, W, H, { selected = null, inspect = null, e
     if (showNum) showNum = place(wNum, fr * 0.85, cx, cy + (showName ? fr * 0.6 : 0));
     if (!showName && !showNum) { dot(); continue; }
     ctx.lineWidth = 3; ctx.strokeStyle = 'rgba(0,0,0,0.75)';
-    if (showName) { ctx.font = `bold ${fr}px system-ui, sans-serif`; ctx.fillStyle = '#fff'; ctx.strokeText(m.n, cx, cy - (showNum ? fr * 0.7 : 0)); ctx.fillText(m.n, cx, cy - (showNum ? fr * 0.7 : 0)); }
+    if (showName) {
+      const nm = r.provFull ? `★${m.n}` : m.n; // ★ = 그 시·도를 통째로 가진 상태
+      ctx.font = `bold ${fr}px system-ui, sans-serif`; ctx.fillStyle = r.provFull ? '#ffe9a8' : '#fff';
+      ctx.strokeText(nm, cx, cy - (showNum ? fr * 0.7 : 0)); ctx.fillText(nm, cx, cy - (showNum ? fr * 0.7 : 0));
+    }
     if (showNum) {
       const y = cy + (showName ? fr * 0.6 : 0);
       ctx.font = `bold ${fr}px system-ui, sans-serif`;

diff --git a/README.md b/README.md
@@ -13,6 +13,8 @@
 
 ≡ 메뉴의 "새 모드: 대한민국 시·군·구 사단전"으로 들어간다. 규칙은 `docs/superpowers/specs/2026-09-06-region-division-mode.md`.
 
+- **시·도 완전 점령**: 한 시·도(서울·강원·경북…)를 전부 가지면 그 지역들 생산 +30%·수비 +15%(유산 '통치'로 더, 축복 '통합'이면 두 배). 지도에 ★, 패널에 ⛳ 진행도. 한 판 안의 중간 목표다. ≡ 메뉴 📊**전황**에서 세력별 세력도·시·도 점유를 한눈에.
+- **시작 지역 고르기**: 판마다 4~8곳 중에서 고른다. 초반 속도를 봇으로 실측해 쉬움/보통/어려움/도전을 붙였다(수원 장안구 10분 126곳 … 속초시 85곳, 제주시 48곳). 속초(설악산)는 이웃 셋이 전부 산악 군이라 어려운 편.
 - **판 고르기**: 전국(251곳) · 수도권(서울·인천·경기 79곳) · 영남(75곳) · 호남·충청(77곳). 권역 판은 짧고 빠르며 AI가 최대 3세력이다. 환생 창이나 ≡ 메뉴의 "난이도 바꿔 새 판"에서 고른다.
 - **📜 기록**(패널): 점령·상실·봉기·배신·격파·연구가 최근 30건 남고, [보기]로 그 지역으로 간다. 정전 중인 세력 땅엔 흰 점선 테두리. 무너진 세력은 외교 창에 💀격파됨으로 뜨고, AI가 연구한 기술도 거기서 보인다.
 - **화면**: 두 손가락으로 24배까지 확대된다(서울·부산 구까지 또렷하게). 작은 지역은 이름 대신 점으로 뜨고, 확대하면 이름이 나온다. ≡ 메뉴 🔍**지역 찾기**에서 이름으로 찾거나 광역시 버튼으로 바로 갈 수 있다.
